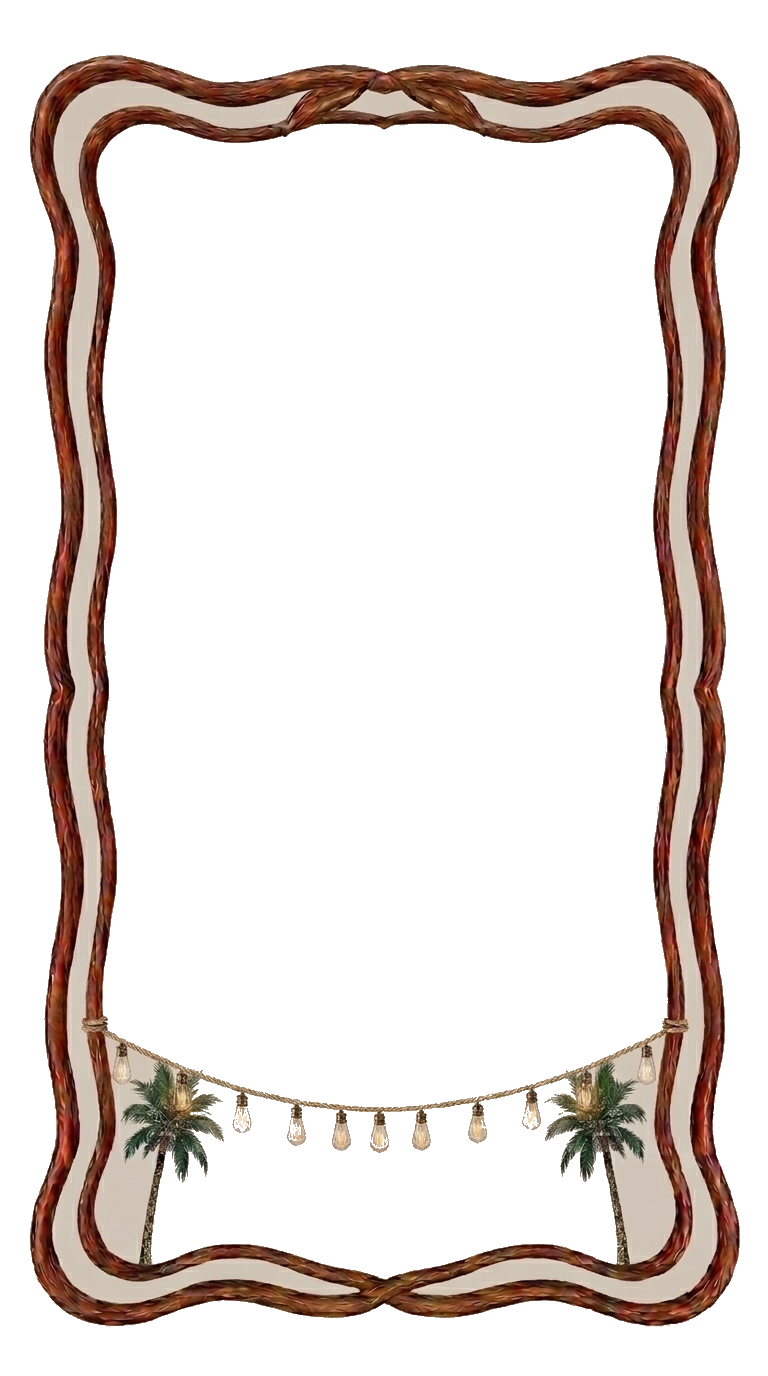
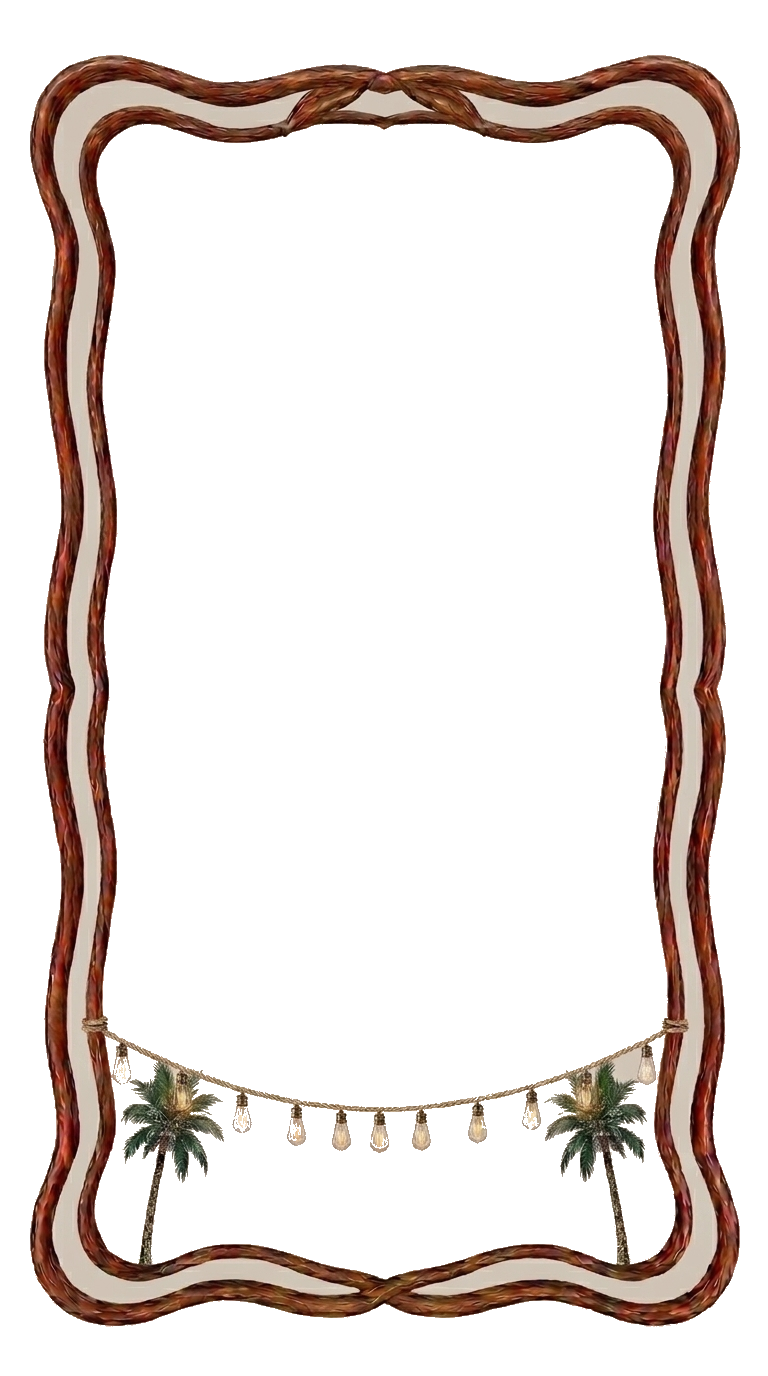
fix (guest) 🐛: remover fondo atrapado a los costados de las palmeras en el marco

Changed region(s): [[0.125, 0.75, 0.2188, 0.9375], [0.7812, 0.75, 0.875, 0.9375]]

diff --git a/scripts/make-transparent-flood.js b/scripts/make-transparent-flood.js
@@ -18,7 +18,7 @@ const filesToConvert = [
     { name: 'dress-code-frame.jpeg', out: 'dress-code-frame.png', type: 'threshold', threshold: 210 },
     { name: 'bola-disco.jpeg', out: 'bola-disco.png', type: 'flood', tolerance: 25 },
     { name: 'bulbs-icons.jpeg', out: 'bulbs-icons.png', type: 'flood', tolerance: 25, refPixel: { x: 10, y: 758 } },
-    { name: 'guest-frame.jpeg', out: 'guest-frame.png', type: 'flood', tolerance: 35, extraSeeds: [{ x: 384, y: 688 }, { x: 384, y: 1200 }] },
+    { name: 'guest-frame.jpeg', out: 'guest-frame.png', type: 'flood', tolerance: 35, extraSeeds: [{ x: 384, y: 688 }, { x: 384, y: 1200 }, { x: 100, y: 1200 }, { x: 668, y: 1200 }] },
     { name: 'dress-code-humans.jpeg', out: 'dress-code-humans.png', type: 'flood', tolerance: 30 },
 ];
 